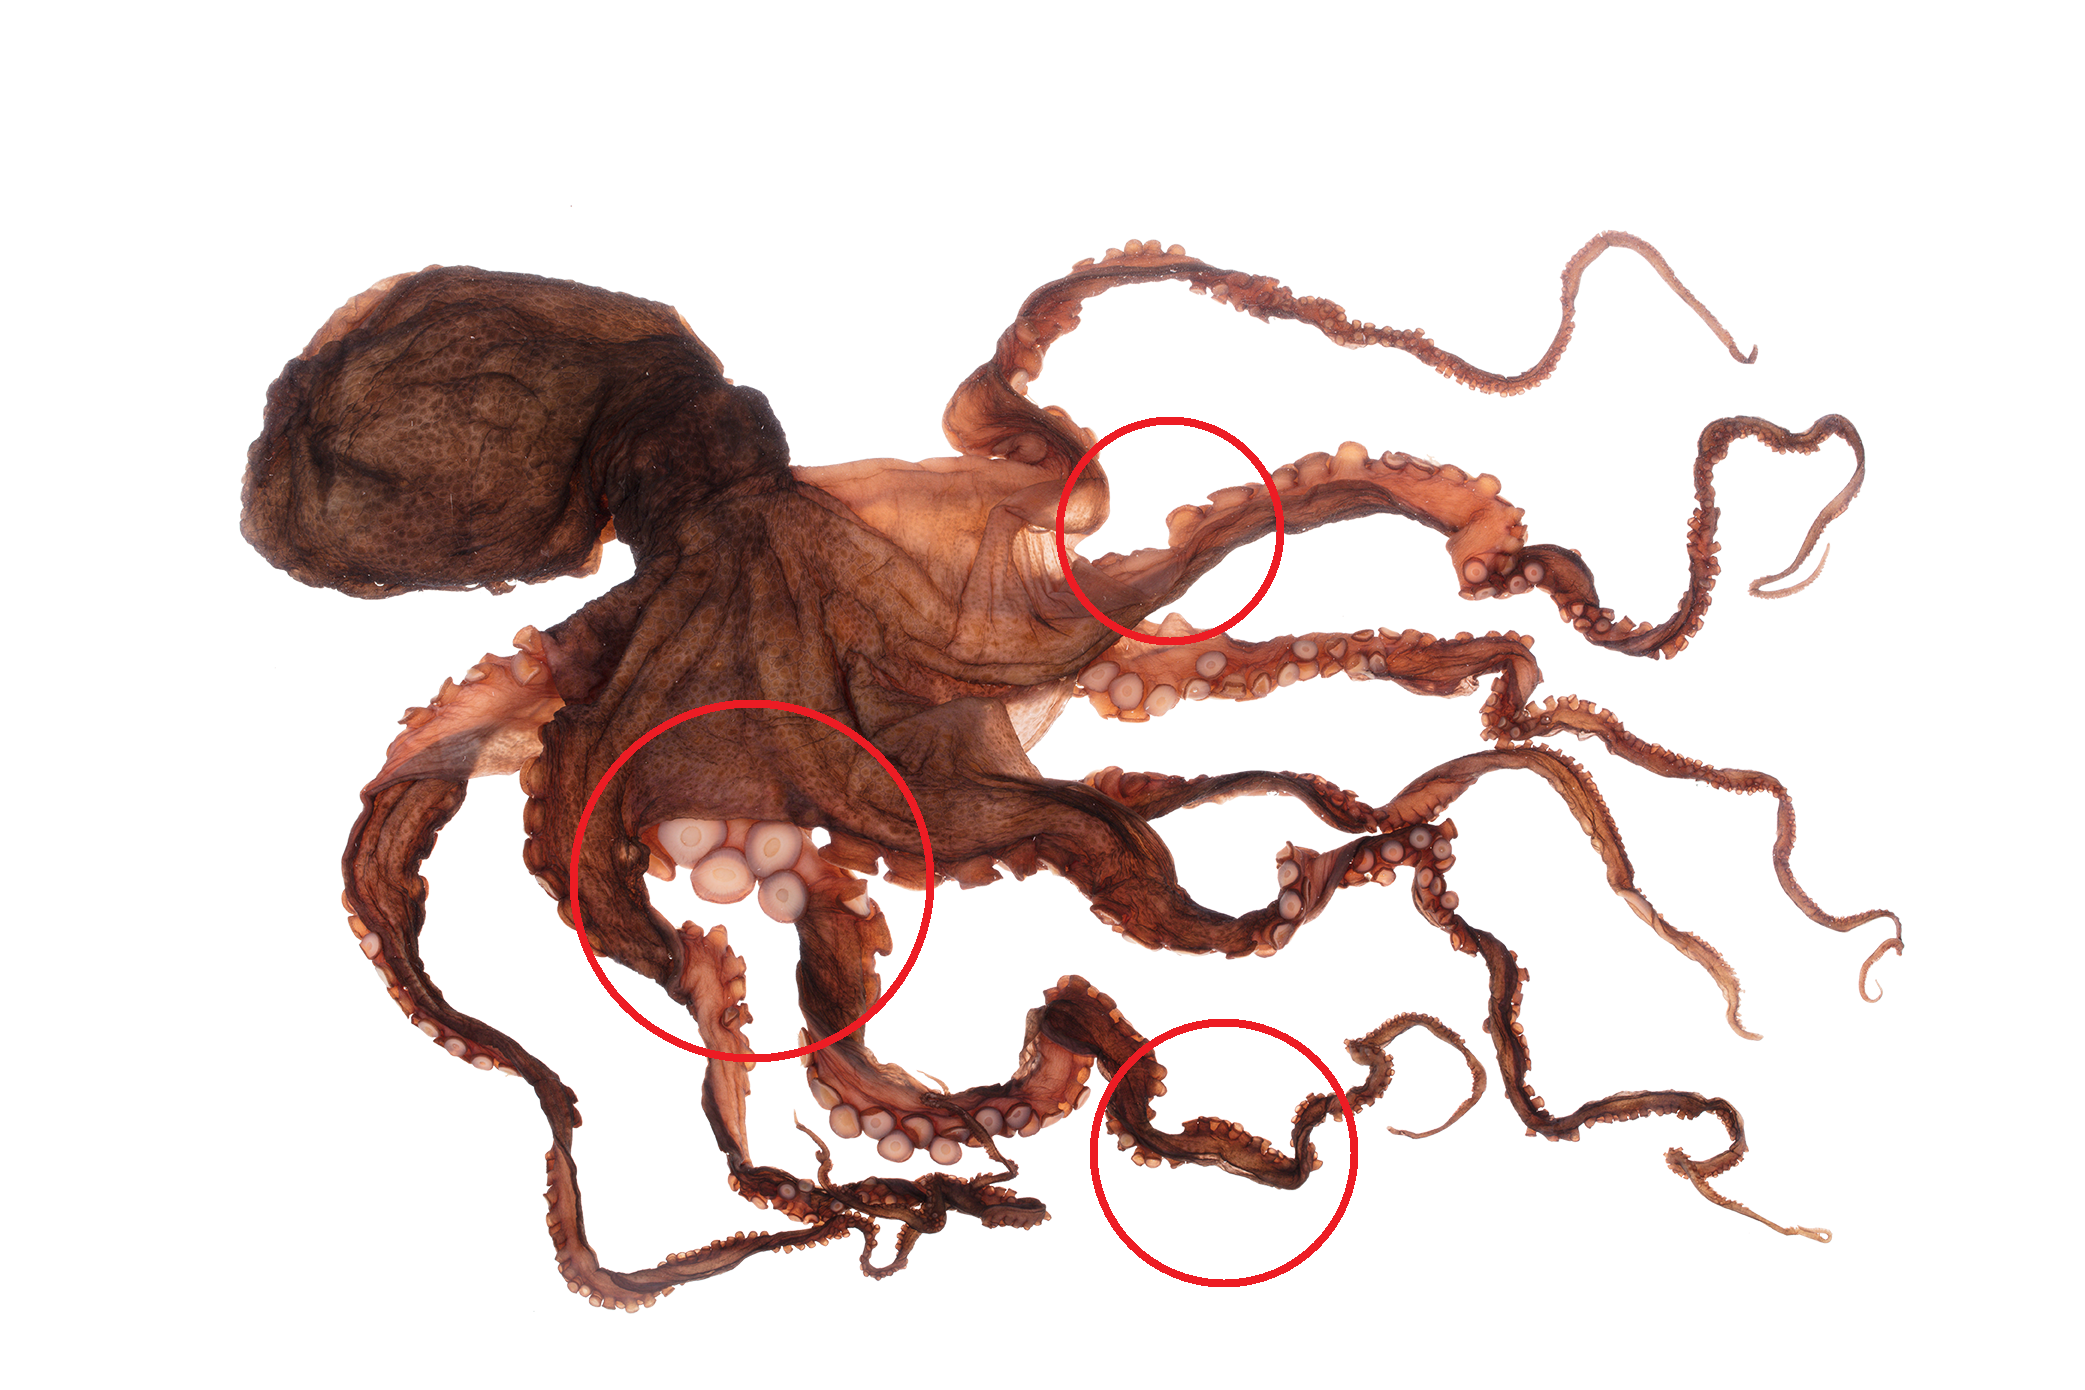
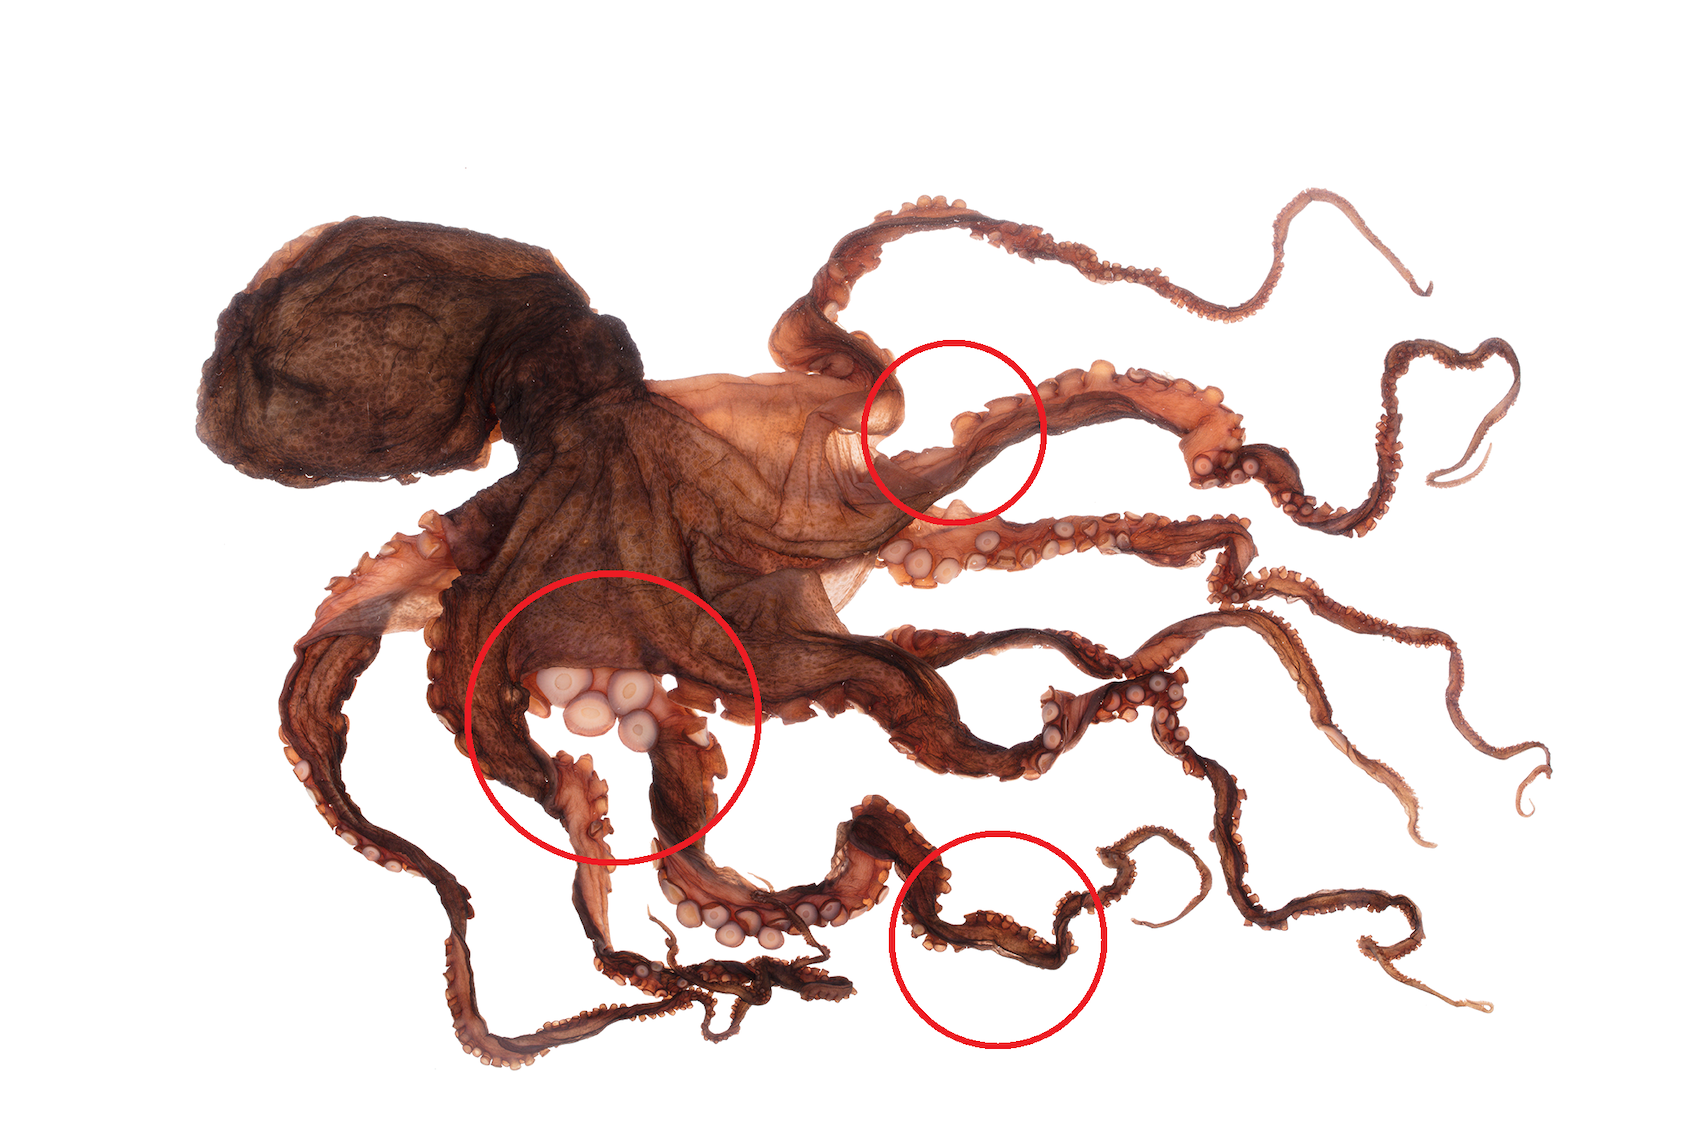
navbars styling

Changed region(s): [[0.5612, 0.8959, 0.6235, 0.9267]]

diff --git a/src/components/HotSpotPage.js b/src/components/HotSpotPage.js
@@ -1,59 +1,53 @@
 // import { Stack } from "react-bootstrap";
 import { Image } from "react-bootstrap";
 import { useEffect } from "react";
-import { useNavigate, useLocation } from "react-router-dom";
+import { useNavigate, useLocation, useParams } from "react-router-dom";
 import { FontAwesomeIcon } from "@fortawesome/react-fontawesome";
 import { faHouse } from "@fortawesome/free-solid-svg-icons";
+import LanguageNav from "./LanguageNav";
 function HotSpotPage({ maoriSelected, setMaoriSelected }) {
   const { state } = useLocation();
   const navigate = useNavigate();
-
+  // const params = useParams();
   console.log(state);
   useEffect(() => {
     var timer = setTimeout(() => {
       navigate(`/${state.category}`);
-    }, 60000);
+    }, 5000);
 
     window.addEventListener(
       "click",
       function () {
         console.log("moved");
         clearTimeout(timer);
+
         timer = setTimeout(() => {
+          // console.log(params);
+          console.log(state.category);
           navigate(`/${state.category}`);
-        }, 60000);
+        }, 5000);
       },
       true
     );
-  }, []);
+  }, [navigate, state.category]);
 
   const homePageNavHandler = () => {
     navigate(`/${state.category}`);
   };
 
-  const EnglishSelectedHandler = () => {
-    setMaoriSelected(false);
-  };
-
-  const MaoriSelectedHandler = () => {
-    setMaoriSelected(true);
-  };
-
   return (
     <>
-      <div className="d-flex justify-content-start px-5 ">
+      <div className="d-flex justify-content-start p-5 ">
         <FontAwesomeIcon
           icon={faHouse}
           className="fa-xl"
           onClick={homePageNavHandler}
         />
         <div className="px-5 py-1 ">
-          <a href={() => false} onClick={EnglishSelectedHandler}>
-            English
-          </a>
-          <a href={() => false} className="px-3" onClick={MaoriSelectedHandler}>
-            Maori
-          </a>
+          <LanguageNav
+            maoriSelected={maoriSelected}
+            setMaoriSelected={setMaoriSelected}
+          />
         </div>
       </div>
 

diff --git a/src/components/SouthIsland.js b/src/components/SouthIsland.js
@@ -1,12 +1,11 @@
 import LandingPage from "../ui/LandingPage";
 import data from "../data";
 import { useNavigate } from "react-router-dom";
-import { useState } from "react";
 function SouthIsland({ maoriSelected, setMaoriSelected }) {
   const [selectedInteractive] = data.filter(
     (d) => d.category === "SouthIsland"
   );
-  // console.log(selectedInteractive);
+
   const navigate = useNavigate();
   const SouthIslandClickHandler = (e) => {
     const [selectedSection] = selectedInteractive.contents.filter(
@@ -16,8 +15,6 @@ function SouthIsland({ maoriSelected, setMaoriSelected }) {
     console.log(selectedSection);
     navigate("/Hotspot", { state: selectedSection });
   };
-
-  // const [maoriSelected, setMaoriSelected] = useState(false);
 
   return (
     <LandingPage
@@ -35,6 +32,7 @@ function SouthIsland({ maoriSelected, setMaoriSelected }) {
       src={selectedInteractive.image}
       onClick={SouthIslandClickHandler}
       contents={selectedInteractive}
+      maoriSelected={maoriSelected}
       setMaoriSelected={setMaoriSelected}
     />
   );

diff --git a/src/ui/LandingPage.js b/src/ui/LandingPage.js
@@ -1,4 +1,6 @@
 import { Stack } from "react-bootstrap";
+import Header from "../components/header";
+import LanguageNav from "../components/LanguageNav";
 import ImgHotspot from "./ImgHotspot";
 
 function LandingPage({
@@ -9,23 +11,17 @@ function LandingPage({
   onClick,
   contents,
   setMaoriSelected,
+  maoriSelected,
 }) {
-  const EnglishSelectedHandler = () => {
-    setMaoriSelected(false);
-  };
-
-  const MaoriSelectedHandler = () => {
-    setMaoriSelected(true);
-  };
   return (
     <>
-      <div className="d-flex justify-content-start px-5 ">
-        <a href={() => false} onClick={EnglishSelectedHandler}>
-          English
-        </a>
-        <a href={() => false} className="px-3" onClick={MaoriSelectedHandler}>
-          Maori
-        </a>
+      <div className="d-flex justify-content-between">
+        <div className="d-flex justify-content-start px-5 pt-4">
+          <LanguageNav
+            maoriSelected={maoriSelected}
+            setMaoriSelected={setMaoriSelected}
+          />
+        </div>
       </div>
 
       <Stack

diff --git a/src/App.js b/src/App.js
@@ -1,5 +1,6 @@
 import "./App.css";
 import Header from "./components/header";
+
 // import LandingPage from "./ui/LandingPage";
 import Octopus from "./components/Octopus";
 import SouthIsland from "./components/SouthIsland";
@@ -8,6 +9,7 @@ import { useState } from "react";
 import HotSpotPage from "./components/HotSpotPage";
 function App() {
   const [maoriSelected, setMaoriSelected] = useState(false);
+
   return (
     <>
       <Header />
@@ -40,26 +42,7 @@ function App() {
           }
         />
       </Routes>
-
-      {/* <SouthIsland /> */}
     </>
-
-    // <div className="App">
-    //   <header className="App-header">
-    //     <img src={logo} className="App-logo" alt="logo" />
-    //     <p>
-    //       Edit <code>src/App.js</code> and save to reload.
-    //     </p>
-    //     <a
-    //       className="App-link"
-    //       href="https://reactjs.org"
-    //       target="_blank"
-    //       rel="noopener noreferrer"
-    //     >
-    //       Learn React
-    //     </a>
-    //   </header>
-    // </div>
   );
 }
 

diff --git a/src/components/Octopus.js b/src/components/Octopus.js
@@ -1,7 +1,6 @@
 import LandingPage from "../ui/LandingPage";
 import data from "../data";
 import { useNavigate } from "react-router-dom";
-import { useState } from "react";
 function Octopus({ maoriSelected, setMaoriSelected }) {
   const [selectedInteractive] = data.filter((d) => d.category === "Octopus");
   //   console.log(selectedInteractive);
@@ -15,8 +14,6 @@ function Octopus({ maoriSelected, setMaoriSelected }) {
     console.log(selectedSection);
     navigate("/Hotspot", { state: selectedSection });
   };
-
-  //   const [maoriSelected, setMaoriSelected] = useState(false);
 
   return (
     <>
@@ -35,6 +32,7 @@ function Octopus({ maoriSelected, setMaoriSelected }) {
         src={selectedInteractive.image}
         onClick={OctoClickHandler}
         contents={selectedInteractive}
+        maoriSelected={maoriSelected}
         setMaoriSelected={setMaoriSelected}
       />
     </>

diff --git a/src/components/LanguageNav.js b/src/components/LanguageNav.js
@@ -1,0 +1,29 @@
+function LanguageNav({ maoriSelected, setMaoriSelected }) {
+  const EnglishSelectedHandler = () => {
+    setMaoriSelected(false);
+  };
+
+  const MaoriSelectedHandler = () => {
+    setMaoriSelected(true);
+  };
+  return (
+    <>
+      <a
+        href={() => false}
+        onClick={EnglishSelectedHandler}
+        className={`${maoriSelected ? "" : "active"}`}
+      >
+        English
+      </a>
+      <a
+        href={() => false}
+        className={`px-3 ${maoriSelected ? "active" : " "}`}
+        onClick={MaoriSelectedHandler}
+      >
+        Maori
+      </a>
+    </>
+  );
+}
+
+export default LanguageNav;

diff --git a/src/components/header.js b/src/components/header.js
@@ -3,9 +3,11 @@ import { NavLink } from "react-router-dom";
 
 function Header() {
   return (
-    <Nav className="justify-content-end p-5">
+    <Nav className="justify-content-end px-5 pt-5">
       <NavLink to="Octopus">Octopus</NavLink>
-      <NavLink to="SouthIsland">SouthIsland</NavLink>
+      <NavLink to="SouthIsland" className="px-3">
+        SouthIsland
+      </NavLink>
     </Nav>
   );
 }

diff --git a/src/App.css b/src/App.css
@@ -8,14 +8,8 @@ body .nav{
 
 .nav-link:focus, .nav-link:hover{
   text-decoration: line-through;
-
-  /* color: grey ; */
 }
 
-
-/* .lanOptions a:nth-child(2){
-  padding-left: 5px;
-} */
 
 body a{
   cursor: pointer;
@@ -23,6 +17,11 @@ body a{
   text-decoration: none;
 }
 
-body a:active {
-  color: blue;
+body a:hover{
+  color: black;
+
+}
+
+.active{
+  text-decoration: underline;
 }

diff --git a/src/ui/ImgHotspot.js b/src/ui/ImgHotspot.js
@@ -16,7 +16,7 @@ function ImgHotspot({ src, onClick, contents }) {
   });
   return (
     <>
-      <Image src={src} useMap="#image-map" style={{ width: "auto" }} />
+      <Image src={src} useMap="#image-map" fluid />
       <map name="image-map">{mapSections}</map>
     </>
   );
